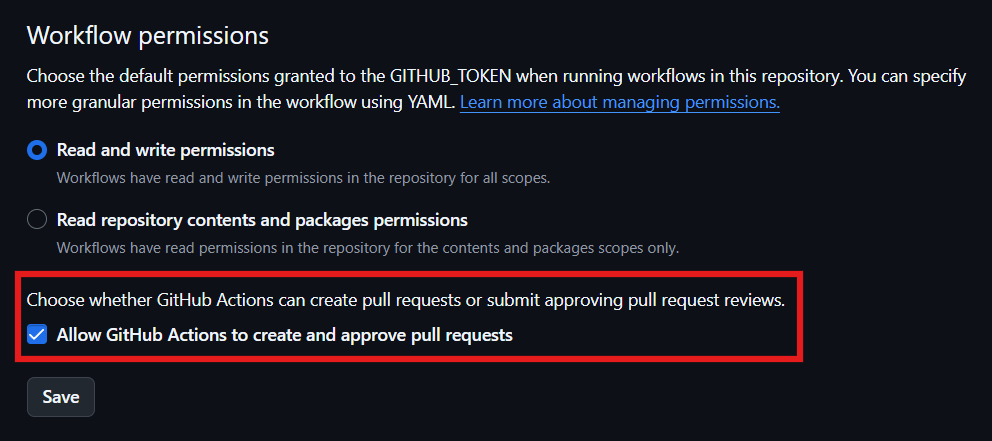
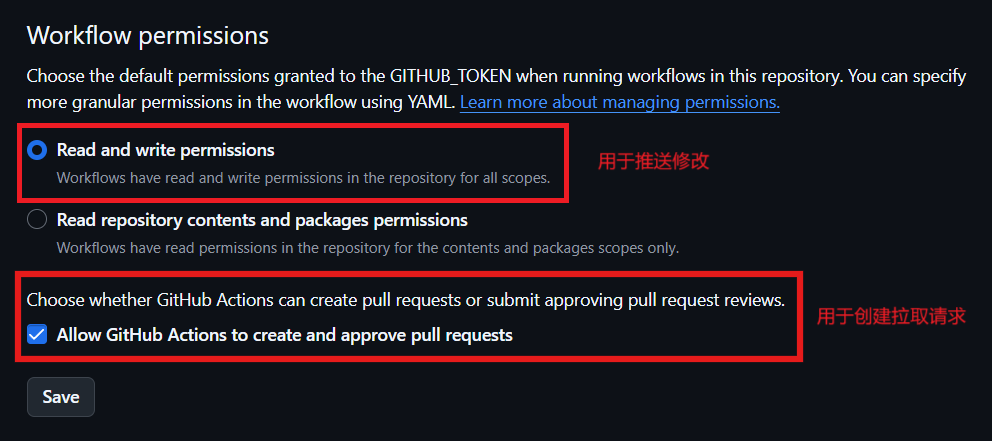
Sitemap Creator version 1.0.2 (#3)
* docs: 更新文档

手动合并 https://github.com/DuckDuckStudio/Sitemap_Creator/pull/2

* feat: 指定更新网站地图的方式 (直接提交/拉取请求)

* docs: 更新文档

Changed region(s): [[0.0, 0.2653, 0.7188, 0.4717], [0.8125, 0.678, 0.9688, 0.737]]

diff --git a/README.md b/README.md
@@ -7,23 +7,34 @@
 [![GitHub Release](https://img.shields.io/github/release/DuckDuckStudio/Sitemap_Creator?style=flat)](https://github.com/DuckDuckStudio/Sitemap_Creator/releases/latest)  
 [反馈Bug🐛](https://github.com/DuckDuckStudio/Sitemap_Creator/issues) | [使用示例🚀](#4-使用示例)  
 
-## 参数
+## 为什么选择 Sitemap Creator 🏆
+| | Sitemap | Creator |  |
+|-----|-----|----|----|
+| 无需本地操作 | ✅ | 稳定更新 | ✅ |
+| 完全免费 | ✅ | 修改时区 | ✅ |
+| 指定更新/创建方式 | ✅ | 不遗漏页面 | ✅ |
+| 忽略页面 | ✅ | 指定网站地图存放位置 | ✅ |
+| 指定页面文件类型 | ✅ | 中文文档+输出 | ✅ |
+| 更多 | 优点 | ... | ✅ |
+
+## 可用参数
 | 参数 | 描述 | 默认值 | 是否必须 | 备注 |
 |-----|-----|-----|-----|-----|
 | `location` | 网站地图的存放位置 (例如 `docs/sitemap.xml`) | `./sitemap.xml` (即仓库根目录) | 否 | / |
-| `token` | 用于创建更新网站地图的拉取请求的 Token | `${{ github.token }}` | 否 | 您的 Token 至少应该具有 `repo` 权限来创建拉取请求，如果使用默认的 Action Token 则需要在仓库设置中允许 GitHub Action 创建拉取请求<sup>[1](#如何允许-github-action-创建拉取请求)</sup> |
+| `token` | 用于创建更新网站地图的拉取请求的 Token | `${{ github.token }}` | 否 | 您的 Token 至少应该具有 `repo` 权限来推送修改，如果使用默认的 Action Token 则需要在仓库设置中给 GitHub Action 写入权限<sup>[1](#1-如何允许-github-action-创建拉取请求--推送修改)</sup> |
 | `timezone` | 设置生成时使用的时区 | `Asia/Shanghai` (上海，UTF+8，CST) | 否 | 遵循 IANA时区数据库（也称为Olson时区数据库）的格式 |
 | `basic_link` | 指向你网站的基础链接 | `https://${{ github.event.repository.owner.login }}.github.io/${{ github.event.repository.name }}` | 否 | 结尾不要带 `/` |
-| `file_type` | 网页文件的类型 (例如使用 docsify 部署的就是 md，不指定则设为 html，可指定多个类型) | `html,md` | 否 | 不带`.`，`md`类型会自动去掉后缀名 |
+| `file_type` | 网页文件的类型 (例如使用 docsify 部署的就是 md，可指定多个类型) | `html,md` | 否 | 不带`.`，`md`类型会自动去掉后缀名 |
 | `ignore_file` | 指定哪些文件不包含在网站地图中 | `啥都没有` | 否 | `,`间隔 |
 | `website_path` | 你的网站内容的位置 (例如 `./` (根目录) 或 `docs`) | `./` (根目录) | **是** | / |
 | `base_branch` | 仓库主分支 (`main`，`master` 等) | `main` | 否 | / |
 | `labels` | 创建拉取请求时添加的标签 | / | 否 | 会自动移除`'`、`"`、<code>\`</code>，可以设置`debug: true`来查看运行情况，标签间用`,`分隔 |
 | `auto_merge` | 启用自动合并的方式 (不指定则不启用自动合并) | / | 否 | [可用的自动合并方式](#3-可用的自动合并方式)，[什么是自动合并](https://docs.github.com/zh/pull-requests/collaborating-with-pull-requests/incorporating-changes-from-a-pull-request/automatically-merging-a-pull-request) |
+| `update` | 指定更新网站地图的方式 (直接提交或拉取请求) | `拉取请求` | 否 | [可用的参数值](#4-可用的修改网站地图的方式) |
 | `debug` | 控制调试输出的开关 | `false` | 否 | 你用`true`还是`1`随便，js里真值<sup>[2](#2-java-script-中有哪些可用真值)</sup>的都行 |
 
 ## 帮助
-### 1. 如何允许 GitHub Action 创建拉取请求
+### 1. 如何允许 GitHub Action 创建拉取请求 / 推送修改
 打开仓库 Settings (上方栏) > Code and automation (左侧栏) > Actions (左侧栏子类别) > General (子类别) > Workflow permissions (划到最下面):  
 
 ![记得按 Save 保存](docs/imgs/README/1.png)
@@ -32,7 +43,7 @@
 请见[真值 - MDN Web 文档术语表：Web 相关术语的定义 | MDN](https://developer.mozilla.org/zh-CN/docs/Glossary/Truthy)。  
 
 ### 3. 可用的自动合并方式
-处理时会自动去除`'`、`"`、<code>\`</code>、`-`。
+处理时会自动去除`'`、`"`、<code>\`</code>、`-`。  
 | 接收的输入 (去除特殊字符后) | 自动合并方式 |
 |-----|-----|
 | `s`、`squash`、`压缩`、`压缩合并`、`压缩自动合并` | [压缩合并](https://docs.github.com/zh/pull-requests/collaborating-with-pull-requests/incorporating-changes-from-a-pull-request/about-pull-request-merges#squash-and-merge-your-commits) |
@@ -41,11 +52,18 @@
 | 空字符串 | 不启用自动合并 |
 | 其他任意值 | 视作错误返回 `1` |
 
-### 4. 使用示例
+### 4. 可用的修改网站地图的方式
+处理时会自动去除`'`、`"`、<code>\`</code>、`-`、` `。  
+| 接收的输入 (去除特殊字符后) | 修改方式 |
+|-----|-----|
+| `pr`、`pullrequest`、`pullrequests`、`prs`、`拉取请求` | 创建拉取请求 (默认) |
+| `commit`、`提交`、`直接提交`、`directcommit`、`commitdirectly` | 直接提交到主分支 |
+
+### 5. 使用示例
 ```yml
 name: 生成 Sitemap
 
-# GitHub Actiion DuckDuckStudio/Sitemap_Creator 版本 1.0.1 示例工作流
+# GitHub Actiion DuckDuckStudio/Sitemap_Creator 版本 1.0.2 示例工作流
 # https://github.com/marketplace/actions/sitemap-creator-stable
 # Under the [GNU Affero General Public License v3.0](https://github.com/DuckDuckStudio/Sitemap_Creator/blob/main/LICENSE)
 
@@ -65,17 +83,21 @@ jobs:
 
     steps:
       - name: 更新网站地图
-        uses: DuckDuckStudio/Sitemap_Creator@1.0.1
+        uses: DuckDuckStudio/Sitemap_Creator@1.0.2
         with:
           location: "docs/sitemap.xml"
           basic_link: "https://duckduckstudio.github.io/Articles/#" # docsify 部署的
-          file_type: "html,md" # 默认值也是这个，爱加不加
           ignore_file: "_Footer.md,404.html,某鸭的文章页面模板.html,营销号"
           website_path: "docs"
-          base_branch: "main" # 默认值也是这个，爱加不加
           labels: "DEV-已启用自动合并,工作流,DEV-开发分支合并"
           auto_merge: "压缩合并"
           debug: true # 启用调试输出
+          # 其他参数默认
+          # base_branch: "main"
+          # file_type: "html,md"
+          # token: ${{ github.token }}
+          # timezone: "Asia/Shanghai"
+          # update: "拉取请求"
 ```
 
 ## 星星🌟
